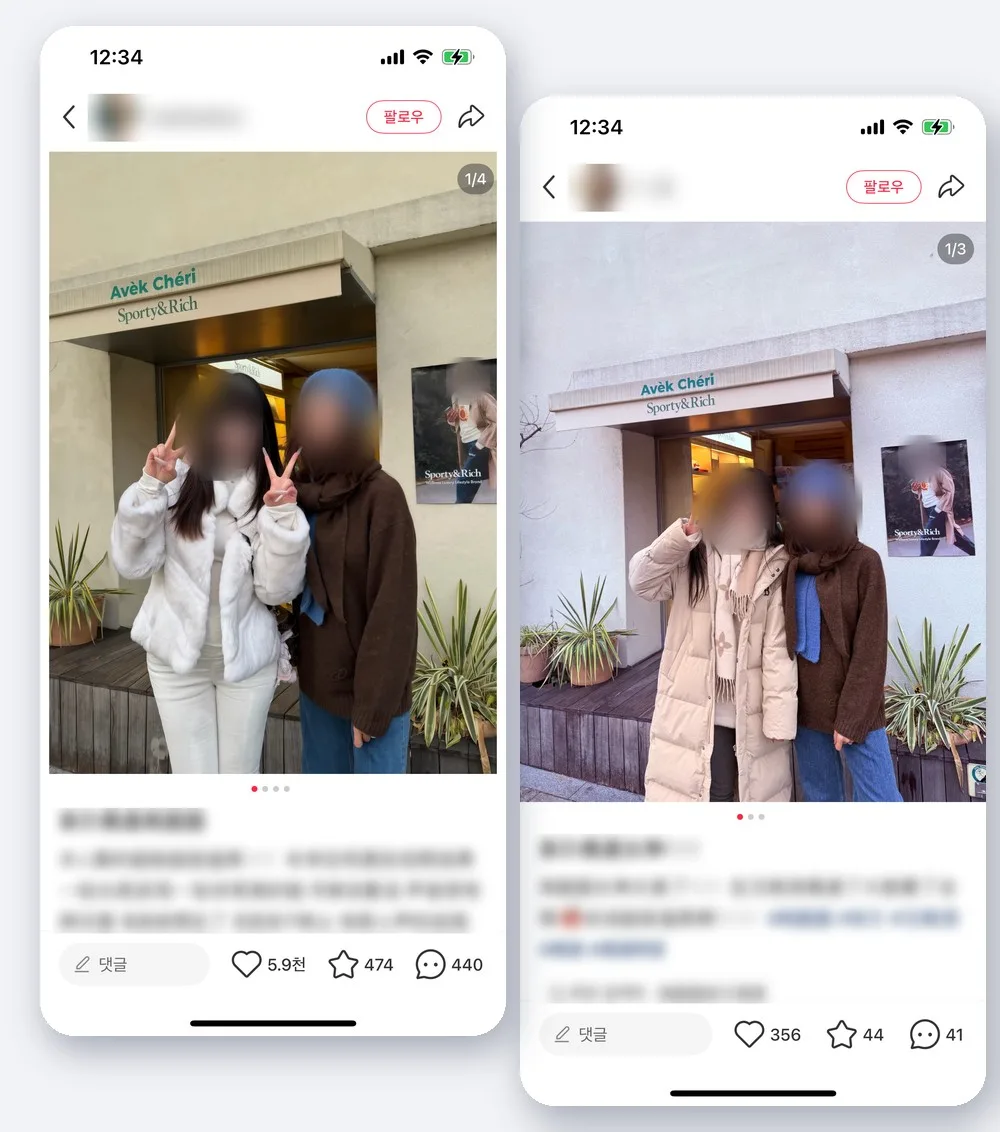
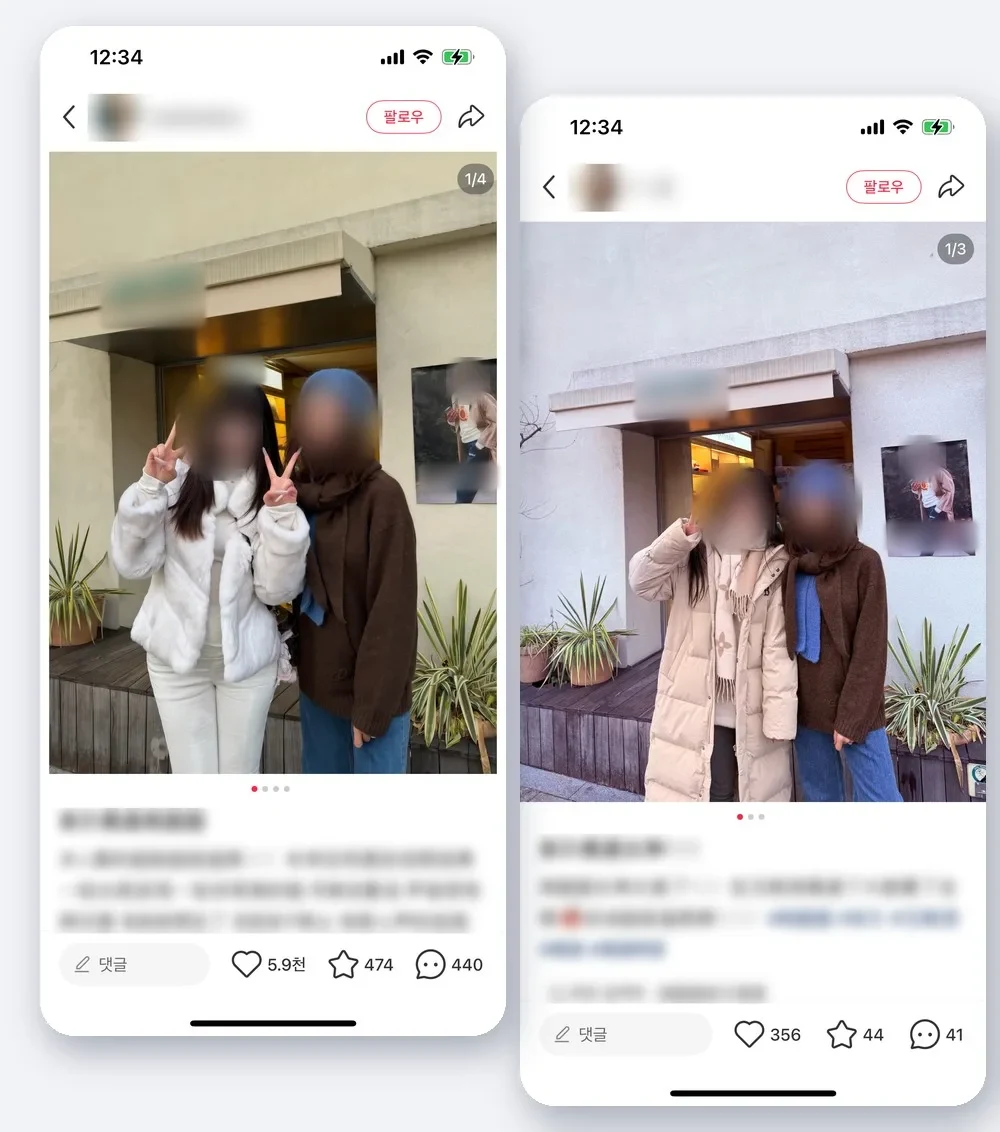
모바일 메뉴 버튼 추가, 사례 이미지 브랜드 블러, 고민 카드 줄바꿈, 미니프로그램 목업 관광 아이템으로 교체
Claude-Session: https://claude.ai/code/session_01GuxTy1LWBBZuBRpQP8TTdG

diff --git a/index.html b/index.html
@@ -217,7 +217,8 @@
 
 <header><div class="wrap nav">
   <a class="logo" href="#home">CMD.LAB</a>
-  <nav class="menu" aria-label="Primary"><a href="#case">사례</a><a href="#koc">체험단</a><a href="#miniprogram">미니프로그램</a><a href="#vietnam">베트남</a><a href="#plan">진행 방식</a><a href="#faq">FAQ</a><a href="/insight/" data-insight-nav>인사이트</a></nav>
+  <button class="menu-btn" type="button" aria-label="메뉴 열기" aria-expanded="false" aria-controls="siteMenu"><svg viewBox="0 0 24 24" aria-hidden="true"><path d="M4 7h16M4 12h16M4 17h16"/></svg><span>메뉴</span></button>
+  <nav class="menu" id="siteMenu" aria-label="Primary"><a href="#case">사례</a><a href="#koc">체험단</a><a href="#miniprogram">미니프로그램</a><a href="#vietnam">베트남</a><a href="#plan">진행 방식</a><a href="#faq">FAQ</a><a href="/insight/" data-insight-nav>인사이트</a></nav>
   <a class="btn btn-primary" href="#contact" data-track="hero_cta_click" data-track-label="header">무료 진단 신청</a>
 </div></header>
 
@@ -237,9 +238,9 @@
   <p class="label">이런 고민</p>
   <h2>해외 진출,<br>돈만 쓰고 끝날까 봐.</h2>
   <div class="pains">
-    <div class="pain"><div class="ic"><svg viewBox="0 0 24 24"><circle cx="12" cy="12" r="9"/><path d="M12 7v10M9.5 9.5c0-1.1 1.1-2 2.5-2s2.5.9 2.5 2-1.1 1.7-2.5 2-2.5.9-2.5 2 1.1 2 2.5 2 2.5-.9 2.5-2"/></svg></div><h3>광고비만 나가고</h3><p class="pd">노출은 샀는데, 매출은 남지 않는</p></div>
-    <div class="pain"><div class="ic"><svg viewBox="0 0 24 24"><circle cx="9" cy="8" r="3.5"/><path d="M3 20c0-3.3 2.7-6 6-6"/><path d="M16 14.5c0-1.1.9-2 2-2s2 .9 2 2c0 1.5-2 1.5-2 3M18 20.5h.01"/></svg></div><h3>누굴 믿어야 할지</h3><p class="pd">숫자만 큰 왕홍, 사라지는 체험단</p></div>
-    <div class="pain"><div class="ic"><svg viewBox="0 0 24 24"><path d="M3 8l9-5 9 5v8l-9 5-9-5z"/><path d="M3 8l9 5 9-5M12 13v8"/><path d="M15 15l4 4M19 15l-4 4"/></svg></div><h3>통관에서 막힐까</h3><p class="pd">품목별 규정과 물류라는 변수</p></div>
+    <div class="pain"><div class="ic"><svg viewBox="0 0 24 24"><circle cx="12" cy="12" r="9"/><path d="M12 7v10M9.5 9.5c0-1.1 1.1-2 2.5-2s2.5.9 2.5 2-1.1 1.7-2.5 2-2.5.9-2.5 2 1.1 2 2.5 2 2.5-.9 2.5-2"/></svg></div><h3>광고비만 나가고</h3><p class="pd">노출은 샀는데,<br>매출은 남지 않는</p></div>
+    <div class="pain"><div class="ic"><svg viewBox="0 0 24 24"><circle cx="9" cy="8" r="3.5"/><path d="M3 20c0-3.3 2.7-6 6-6"/><path d="M16 14.5c0-1.1.9-2 2-2s2 .9 2 2c0 1.5-2 1.5-2 3M18 20.5h.01"/></svg></div><h3>누굴 믿어야 할지</h3><p class="pd">숫자만 큰 왕홍,<br>사라지는 체험단</p></div>
+    <div class="pain"><div class="ic"><svg viewBox="0 0 24 24"><path d="M3 8l9-5 9 5v8l-9 5-9-5z"/><path d="M3 8l9 5 9-5M12 13v8"/><path d="M15 15l4 4M19 15l-4 4"/></svg></div><h3>통관에서 막힐까</h3><p class="pd">품목별 규정과<br>물류라는 변수</p></div>
   </div>
   <p class="turn">그래서, <em>작게 시작합니다.</em></p><p class="sub" style="margin-top:8px;font-size:17px">한 번에 크게 걸지 않습니다.<br>반응을 숫자로 확인하고, 될 때만 키웁니다.</p>
 </div></section>
@@ -317,15 +318,15 @@
   <div class="mp-grid">
     <div class="phone" aria-hidden="true"><div class="screen">
       <div class="sbar"><span>9:41</span><span>●●● ▮</span></div>
-      <div class="mtop"><span>韩国精选 · 小程序</span><span class="capsule"></span></div>
-      <div class="banner"><b>出发前下单 · 机场提货</b><span>출국 전 주문 · 공항 수령</span></div>
-      <div class="cats"><div><i></i>香水</div><div><i></i>护肤</div><div><i></i>彩妆</div><div><i></i>礼物</div></div>
-      <div class="prods"><div class="prod"><i></i><b></b><em>¥ 268</em></div><div class="prod"><i></i><b></b><em>¥ 189</em></div><div class="prod"><i></i><b></b><em>¥ 99</em></div><div class="prod"><i></i><b></b><em>¥ 159</em></div></div>
+      <div class="mtop"><span>韩国精选 · 小程序</span><span class="capsule">···<i></i></span></div>
+      <div class="banner"><b>来韩前下单 · 到店自提</b><span>방한 전 주문 · 매장 수령</span></div>
+      <div class="cats"><div><i>🍪</i>零食</div><div><i>💄</i>美妆</div><div><i>🧸</i>周边</div><div><i>🎫</i>体验</div></div>
+      <div class="prods"><div class="prod"><i>🍪</i><b>韩国零食礼盒</b><em>¥ 68</em></div><div class="prod"><i>👘</i><b>韩服体验券</b><em>¥ 189</em></div><div class="prod"><i>🧸</i><b>人气文创周边</b><em>¥ 99</em></div><div class="prod"><i>💄</i><b>热门美妆套装</b><em>¥ 159</em></div></div>
       <div class="paybar">微信支付</div>
     </div></div>
     <div class="journey">
-      <div class="jr"><div class="ic"><svg viewBox="0 0 24 24"><path d="M2 16l20-6-20-6 3 6z"/><path d="M5 10h8"/></svg></div><div><small>방한 전</small><h3>미리 산다</h3><p class="jd">샤오홍슈에서 발견, 출국 전 주문·위챗페이 결제</p></div></div>
-      <div class="jr"><div class="ic"><svg viewBox="0 0 24 24"><rect x="3" y="3" width="7" height="7" rx="1"/><rect x="14" y="3" width="7" height="7" rx="1"/><rect x="3" y="14" width="7" height="7" rx="1"/><path d="M14 14h3v3h-3zM20 14v.01M14 20h.01M17 20h4v-3"/></svg></div><div><small>방한 중</small><h3>찾아와서 받는다</h3><p class="jd">매장·공항 QR로 수령하고, 현장에서 더 산다</p></div></div>
+      <div class="jr"><div class="ic"><svg viewBox="0 0 24 24"><path d="M2 16l20-6-20-6 3 6z"/><path d="M5 10h8"/></svg></div><div><small>방한 전</small><h3>미리 산다</h3><p class="jd">샤오홍슈에서 발견, 여행 전 주문·위챗페이 결제</p></div></div>
+      <div class="jr"><div class="ic"><svg viewBox="0 0 24 24"><rect x="3" y="3" width="7" height="7" rx="1"/><rect x="14" y="3" width="7" height="7" rx="1"/><rect x="3" y="14" width="7" height="7" rx="1"/><path d="M14 14h3v3h-3zM20 14v.01M14 20h.01M17 20h4v-3"/></svg></div><div><small>방한 중</small><h3>찾아와서 받는다</h3><p class="jd">매장 QR로 수령하고, 여행 동선에서 더 산다</p></div></div>
       <div class="jr"><div class="ic"><svg viewBox="0 0 24 24"><path d="M21 12a9 9 0 1 1-3-6.7"/><path d="M21 4v5h-5"/></svg></div><div><small>귀국 후</small><h3>다시 산다</h3><p class="jd">기업 위챗 1:1 관리로 크로스보더 재구매</p></div></div>
     </div>
   </div>
@@ -671,6 +672,14 @@
     </div>
 </div>
 
+<script>
+(function(){var b=document.querySelector('.menu-btn'),m=document.getElementById('siteMenu');if(!b||!m)return;
+function c(){m.classList.remove('open');b.setAttribute('aria-expanded','false');b.setAttribute('aria-label','메뉴 열기')}
+b.addEventListener('click',function(){var o=m.classList.toggle('open');b.setAttribute('aria-expanded',o);b.setAttribute('aria-label',o?'메뉴 닫기':'메뉴 열기')});
+m.addEventListener('click',function(e){if(e.target.closest('a'))c()});
+document.addEventListener('keydown',function(e){if(e.key==='Escape')c()});
+window.addEventListener('resize',function(){if(innerWidth>820)c()});})();
+</script>
 <script src="assets/js/main.js" defer></script>
 </body>
 </html>

diff --git a/assets/css/home-v4.css b/assets/css/home-v4.css
@@ -33,6 +33,8 @@ header{position:sticky;top:0;z-index:50;background:rgba(255,255,255,.8);backdrop
 .logo{font-weight:800;font-size:19px;letter-spacing:-.02em}
 .menu{display:flex;gap:28px;font-size:15px;color:var(--ink2)}
 .nav .btn{padding:8px 16px;font-size:14px}
+.menu-btn{display:none;align-items:center;gap:6px;height:36px;padding:0 12px;border:1px solid rgba(0,0,0,.12);border-radius:999px;background:#fff;color:var(--ink);font:inherit;font-size:14px;font-weight:600;cursor:pointer}
+.menu-btn svg{width:18px;height:18px;fill:none;stroke:currentColor;stroke-width:2;stroke-linecap:round}
 
 /* 히어로 */
 .hero{position:relative;color:#fff;text-align:center;padding:128px 0 100px;background:var(--dark) url('../images/hero-global-network.webp') center/cover no-repeat}
@@ -118,19 +120,20 @@ header{position:sticky;top:0;z-index:50;background:rgba(255,255,255,.8);backdrop
 .screen{width:100%;height:100%;border-radius:34px;background:#f4f4f4;overflow:hidden;color:var(--ink);display:flex;flex-direction:column}
 .sbar{height:34px;display:flex;justify-content:space-between;align-items:center;padding:0 22px;font-size:11px;font-weight:700}
 .mtop{display:flex;justify-content:space-between;align-items:center;padding:6px 14px 10px;font-size:13px;font-weight:700}
-.capsule{width:64px;height:24px;border:1px solid #ddd;border-radius:12px;background:#fff}
+.capsule{width:64px;height:24px;border:1px solid #ddd;border-radius:12px;background:#fff;display:flex;align-items:center;justify-content:space-around;font-size:12px;letter-spacing:1px;color:#444;padding:0 6px}
+.capsule i{width:10px;height:10px;border:2px solid #444;border-radius:50%}
 .banner{margin:0 12px;height:110px;border-radius:14px;background:#1d1d1f;color:#fff;padding:16px;display:flex;flex-direction:column;justify-content:flex-end}
 .banner b{font-size:16px}.banner span{font-size:11px;opacity:.8}
 .cats{display:flex;justify-content:space-around;padding:14px 8px}
 .cats div{text-align:center;font-size:10px;color:var(--ink3)}
-.cats i{display:block;width:34px;height:34px;border-radius:10px;background:#fff;margin:0 auto 4px}
+.cats i{display:flex;align-items:center;justify-content:center;font-style:normal;font-size:18px;width:34px;height:34px;border-radius:10px;background:#fff;margin:0 auto 4px}
 .prods{display:grid;grid-template-columns:1fr 1fr;gap:8px;padding:0 12px;flex:1}
 .prod{background:#fff;border-radius:12px;padding:8px}
-.prod i{display:block;height:64px;border-radius:8px;background:linear-gradient(135deg,#f1e8dc,#e7d3bd)}
+.prod i{display:flex;align-items:center;justify-content:center;font-style:normal;font-size:30px;height:64px;border-radius:8px;background:linear-gradient(135deg,#f1e8dc,#e7d3bd)}
 .prod:nth-child(2) i{background:linear-gradient(135deg,#e2ecf7,#c9d9ee)}
 .prod:nth-child(3) i{background:linear-gradient(135deg,#eee5f5,#d9c7ea)}
 .prod:nth-child(4) i{background:linear-gradient(135deg,#e6f3ea,#cbe5d3)}
-.prod b{display:block;height:7px;width:70%;background:#e5e5e5;border-radius:4px;margin-top:8px}
+.prod b{display:block;font-size:10px;font-weight:600;color:var(--ink2);margin-top:8px;white-space:nowrap;overflow:hidden;text-overflow:ellipsis}
 .prod em{display:block;font-style:normal;font-size:11px;font-weight:700;color:var(--red);margin-top:6px}
 .paybar{margin:12px;height:44px;border-radius:22px;background:var(--green);color:#fff;display:grid;place-items:center;font-weight:700;font-size:14px}
 .journey{display:grid;gap:14px}
@@ -196,11 +199,14 @@ header{position:sticky;top:0;z-index:50;background:rgba(255,255,255,.8);backdrop
 .form .note{font-size:13px;color:var(--ink3);margin-top:12px;text-align:center}
 
 @media (max-width:820px){
-  .menu{display:none}
+  .nav{gap:8px}.logo{margin-right:auto}.nav .btn{padding:8px 14px}
+  .menu-btn{display:inline-flex;order:1}.nav .btn{order:2}
+  .menu{display:none;position:absolute;top:56px;left:0;right:0;flex-direction:column;gap:0;padding:8px 16px 16px;background:rgba(255,255,255,.98);border-bottom:1px solid rgba(0,0,0,.08);box-shadow:0 12px 24px rgba(0,0,0,.08);font-size:17px}
+  .menu.open{display:flex}.menu a{padding:14px 4px;border-bottom:1px solid rgba(0,0,0,.06)}.menu a:last-child{border-bottom:0}
   .hero{padding:92px 0 76px}.eyebrow{font-size:12.5px;padding:8px 14px}.hero h1{font-size:min(7.8vw,36px)}.hero .sub{font-size:18px}
   .proof b{font-size:20px}.proof span{font-size:12px}
   .sub{font-size:18px}
-  .pains{grid-template-columns:1fr;gap:12px}.pain{display:flex;align-items:center;gap:16px;padding:20px;text-align:left}.pain .ic{margin:0}
+  .pains{grid-template-columns:1fr;gap:12px}.pain{display:flex;align-items:center;gap:16px;padding:20px;text-align:left}.pain .ic{margin:0}.pain .ic{flex:none}.pain h3{flex:1;min-width:0;font-size:18px}.pain .pd{flex:none;margin-top:0;font-size:14px;white-space:nowrap}
   .case-top,.big100,.mp-grid,.contact,.star,.value{grid-template-columns:1fr}
   .value{padding:28px;gap:24px}
   .photo{min-height:440px}
@@ -416,3 +422,4 @@ footer a{text-decoration:underline;text-underline-offset:2px}
 }
 @media (max-width:420px){.ai-input-group{grid-template-columns:1fr}}
 @media (max-width:420px){#contactInfo::placeholder{font-size:14px}}
+@media (max-width:380px){.pain h3{font-size:16px}.pain .pd{font-size:13px}}
